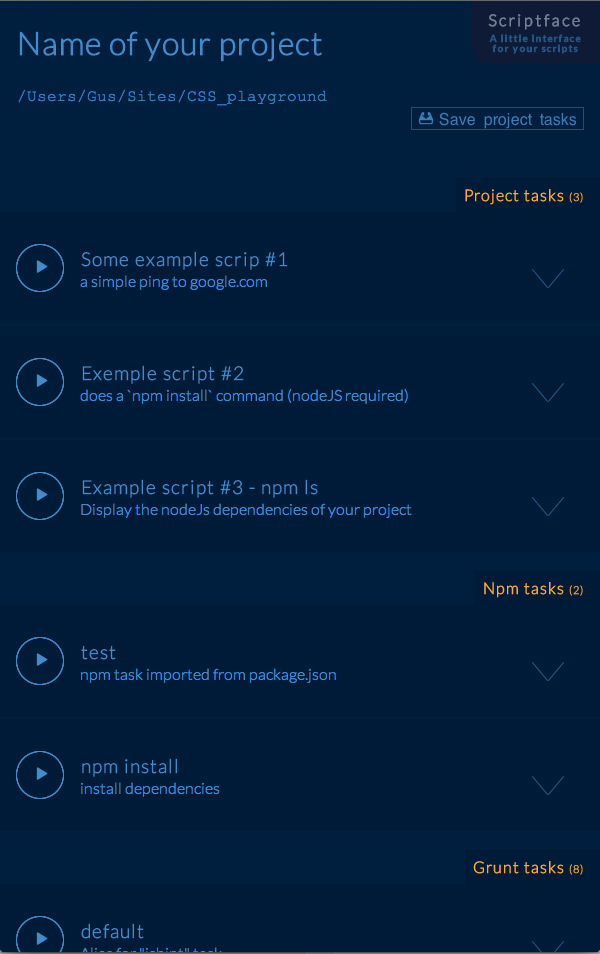
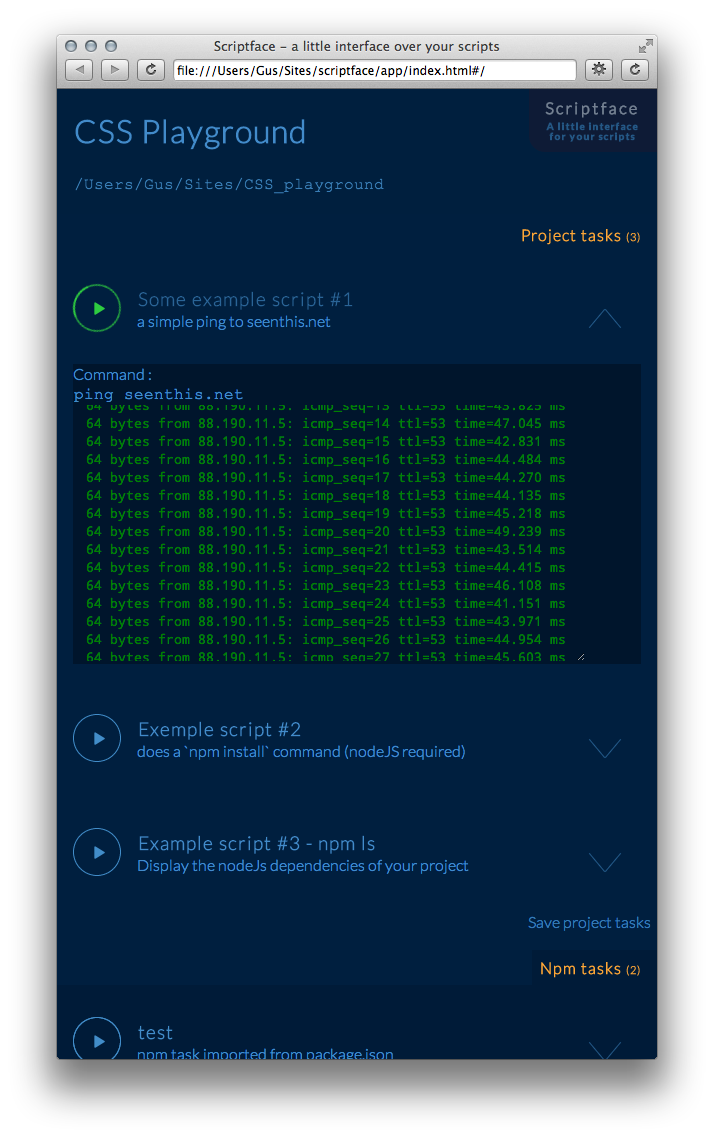
readme and screenshot

diff --git a/README.md b/README.md
@@ -1,21 +1,23 @@
 # Scriptface
 
+*A desktop application providing a little dashboard for your project's scripts.*
+
+**Drop a folder on the application windows, and it will expose you a simple interface over actionnable scripts**
+
+
 ![scriptface screenshot](https://github.com/0gust1/Scriptface/raw/master/scriptface_screenshot.png "scriptface screenshot")
 
 
-A desktop application providing a little dashboard for your project's scripts.
-
-Drop a folder on the application windows, and it will expose you a simple interface over actionnable scripts
-
 This tool can be used as :
-* a sort of command-line helper
-* a first layer of documentation for your projects
+* a sort of command-line helper for people not used to command line.
+* a first layer of tooling & documentation for your team's projects
+* a lazy tool for lazy people ;)
 
 **Features :**
 * Allow project-based task definition (persisted in `command.json` file, in your project root).
 * parses and expose package.json tasks
 * parses and expose grunt tasks
-* parses and expose gulp tasks (TODO)
+* parses and expose gulp tasks (done, in the devel branch)
 * parses and expose Makefile contents (TODO)
 * ... etc. TODO
 
@@ -23,7 +25,7 @@ This tool can be used as :
 
 - node-webkit yeoman generator
 - node-webkit
-- AngularJS
+- AngularJS (will change)
 
 ## Install it :
 
@@ -31,7 +33,7 @@ This application uses node-webkit as a runtime.
 
 3 possibilities :
 
-* Grab a compiled, platform specific version, with node-webkit embedded (see pre-built binaries below).
+* Grab a packaged, platform specific version, with node-webkit embedded (see pre-built binaries below).
 * Download and install node-webkit, download the app archive (*.nw file), launch node-webkit with the app archive as parameter (not yet).
 * Download and install node-webkit, setup a build environnement (see below, "Build and run your own version").
 
@@ -67,7 +69,7 @@ Basically `node-webkit_executable_path "your_app_folder"` :
 
 You found that app useful, you want to add some features ?
 
-TODO
+The app is a pretty alpha state and important changes are planned (switching to vuejs or reactJs for example). You can be a part of them, let's talk in issues section.
 
 ## TODOs :
 
